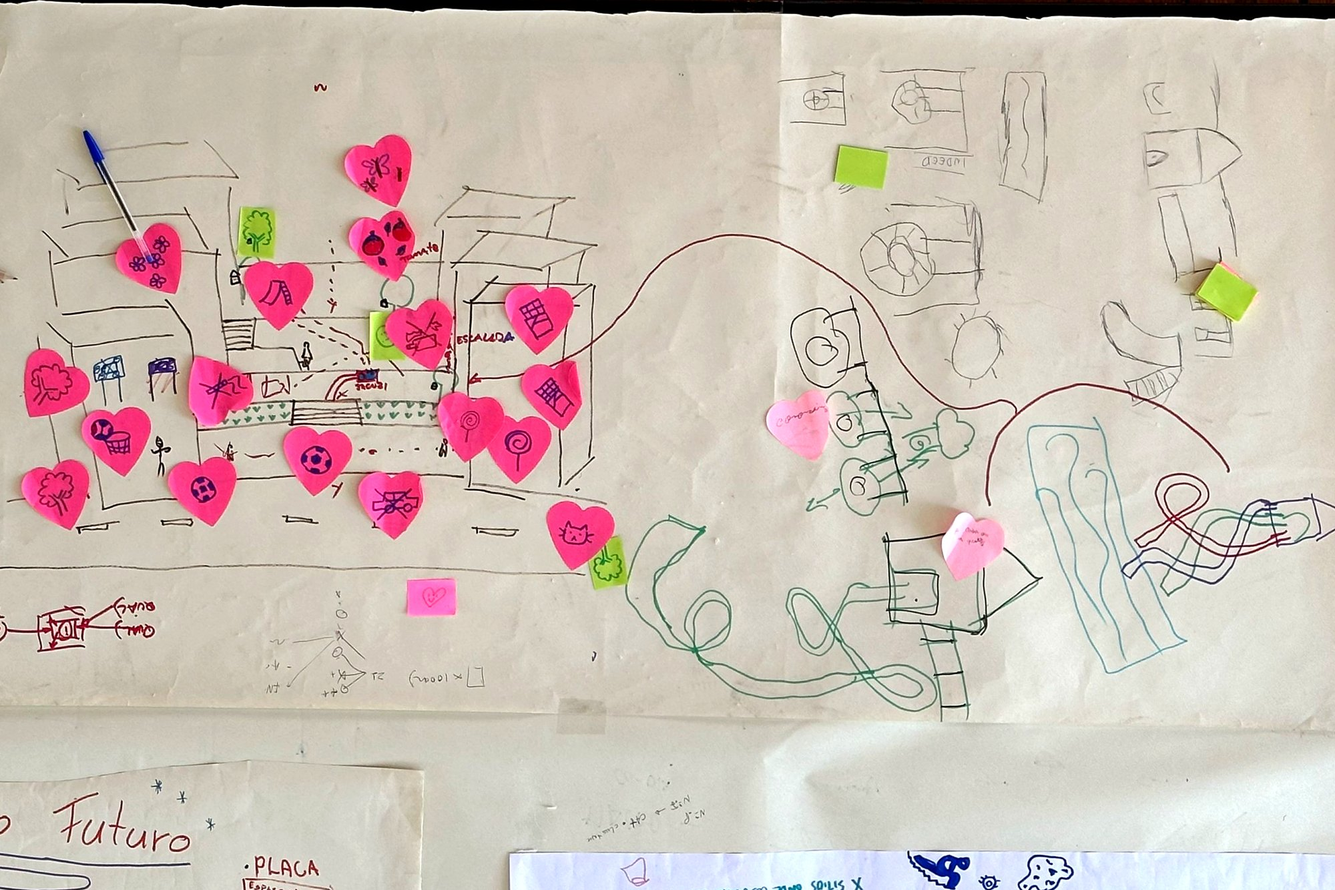
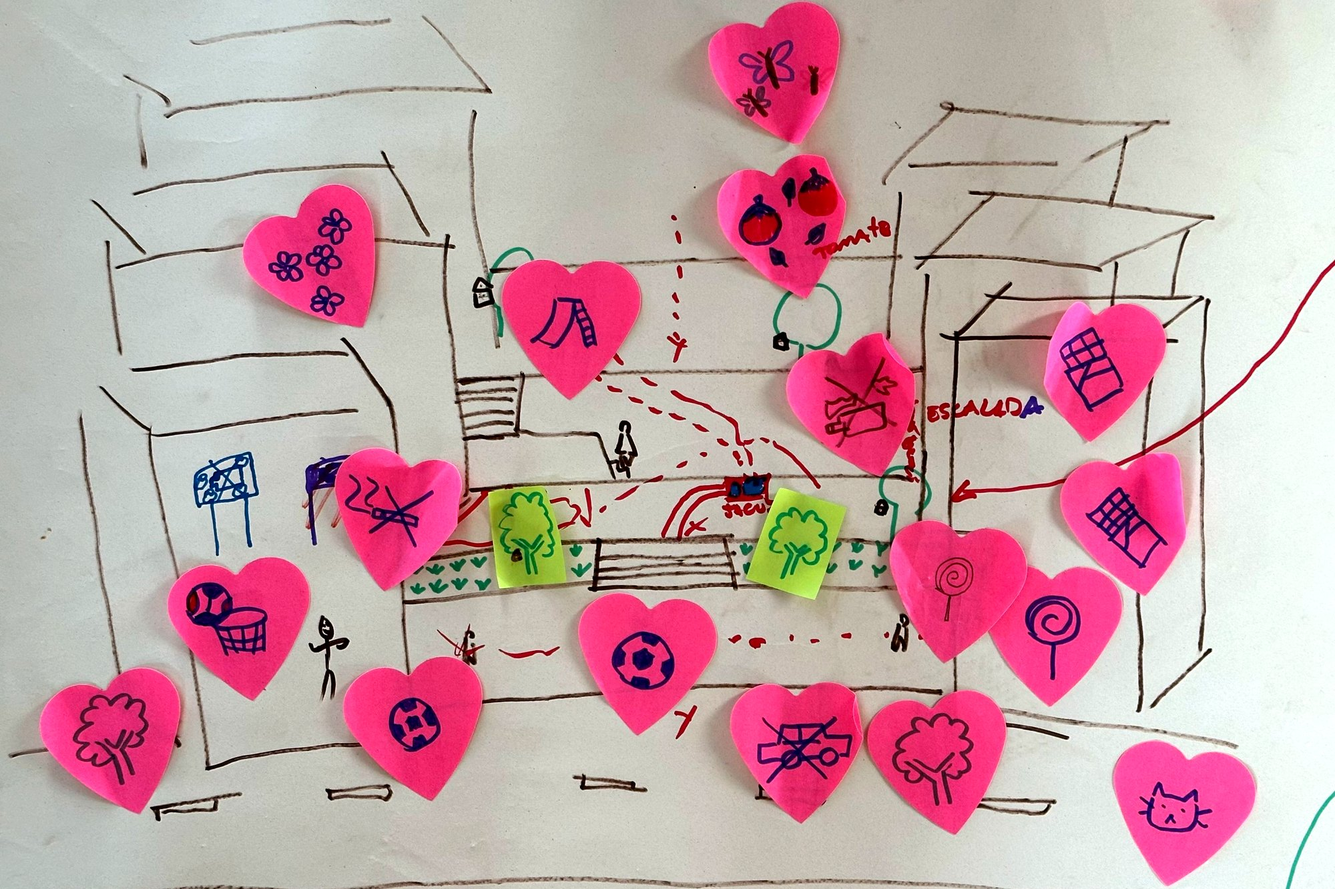
INGOSA: Visão do Futuro close-up replaces the wide board photo
Claude-Session: https://claude.ai/code/session_01E52GWPSvHa3ianKvFZYoJQ

diff --git a/lab/ingosa/index.md b/lab/ingosa/index.md
@@ -44,8 +44,8 @@ photos:
   caption: 'Body-storming: a pupil embodies her idea of how the area could change'
   alt: A girl in a pink T-shirt stands on an empty concrete square in front of a grey wall and a metal gate, her hands raised to her face.
 - src: /images/cases/ingosa/ingosa-children-ideas.jpg
-  caption: The children's ideas for the square, drawn and marked with hearts
-  alt: "A large sheet of paper with a child's drawing of the square between the blocks, covered in pink heart-shaped notes with drawings of trees, balls, a slide and sweets, and more drawings of slides and paths to the right."
+  caption: "Visão do Futuro (Time Machine): playing with drawing on the street floor where we wanted to envision a new future"
+  alt: "A drawing of the square between the blocks, covered in pink heart-shaped notes with drawings of trees, flowers, tomatoes, a slide, balls, sweets and a cat, and crossed-out cars and cigarettes."
 - src: /images/cases/ingosa/ingosa-walk-map.jpg
   caption: The walk-through map, annotated by hand
   alt: A printed aerial map of Ingote with arrows, sun symbols and handwritten notes in coloured marker.
